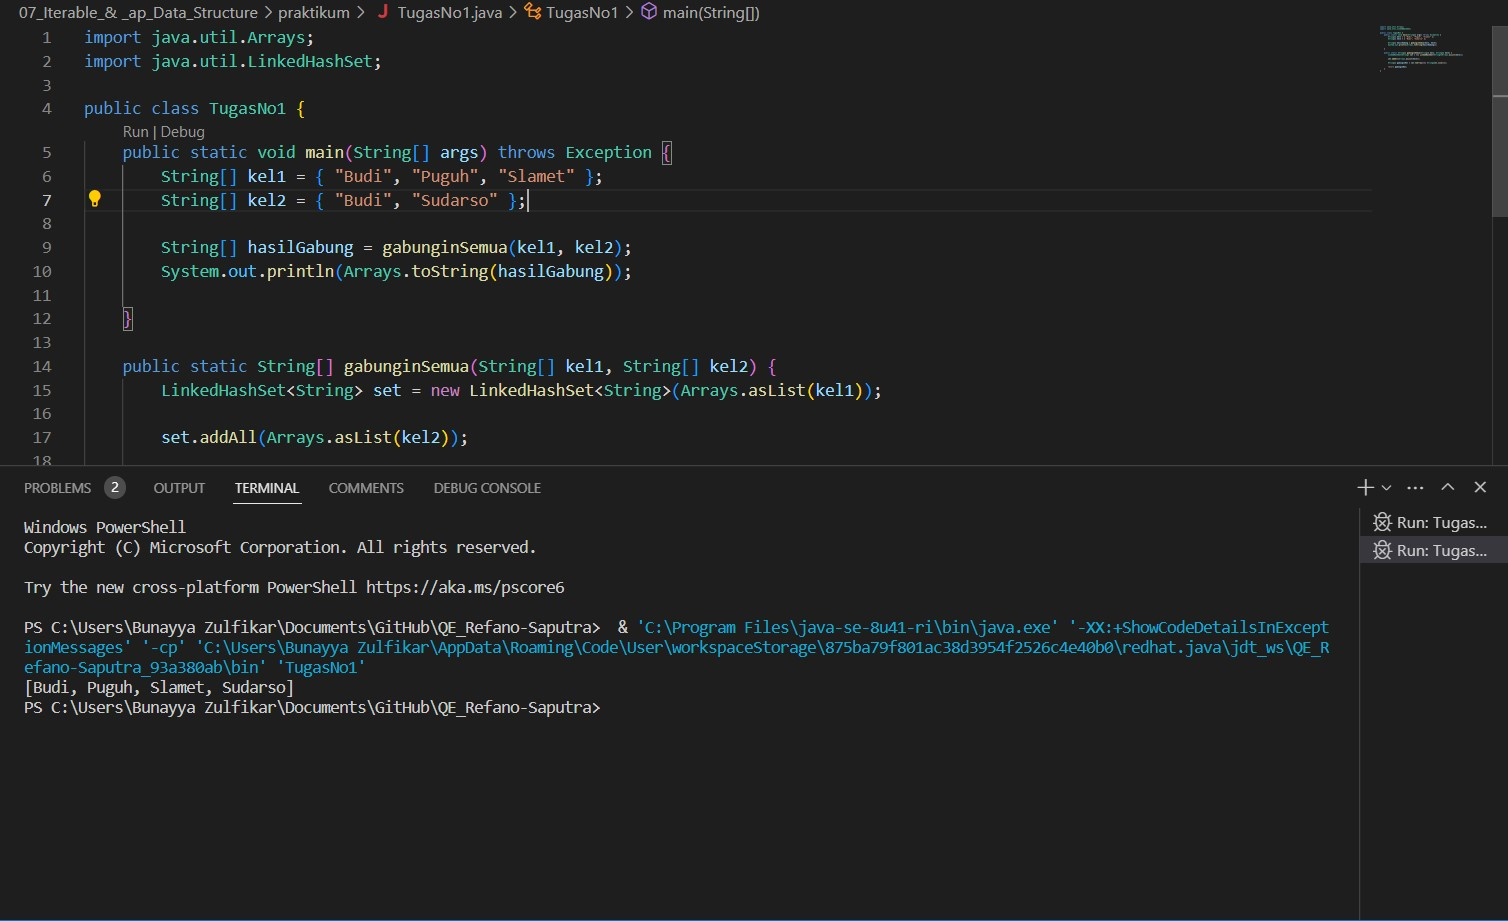
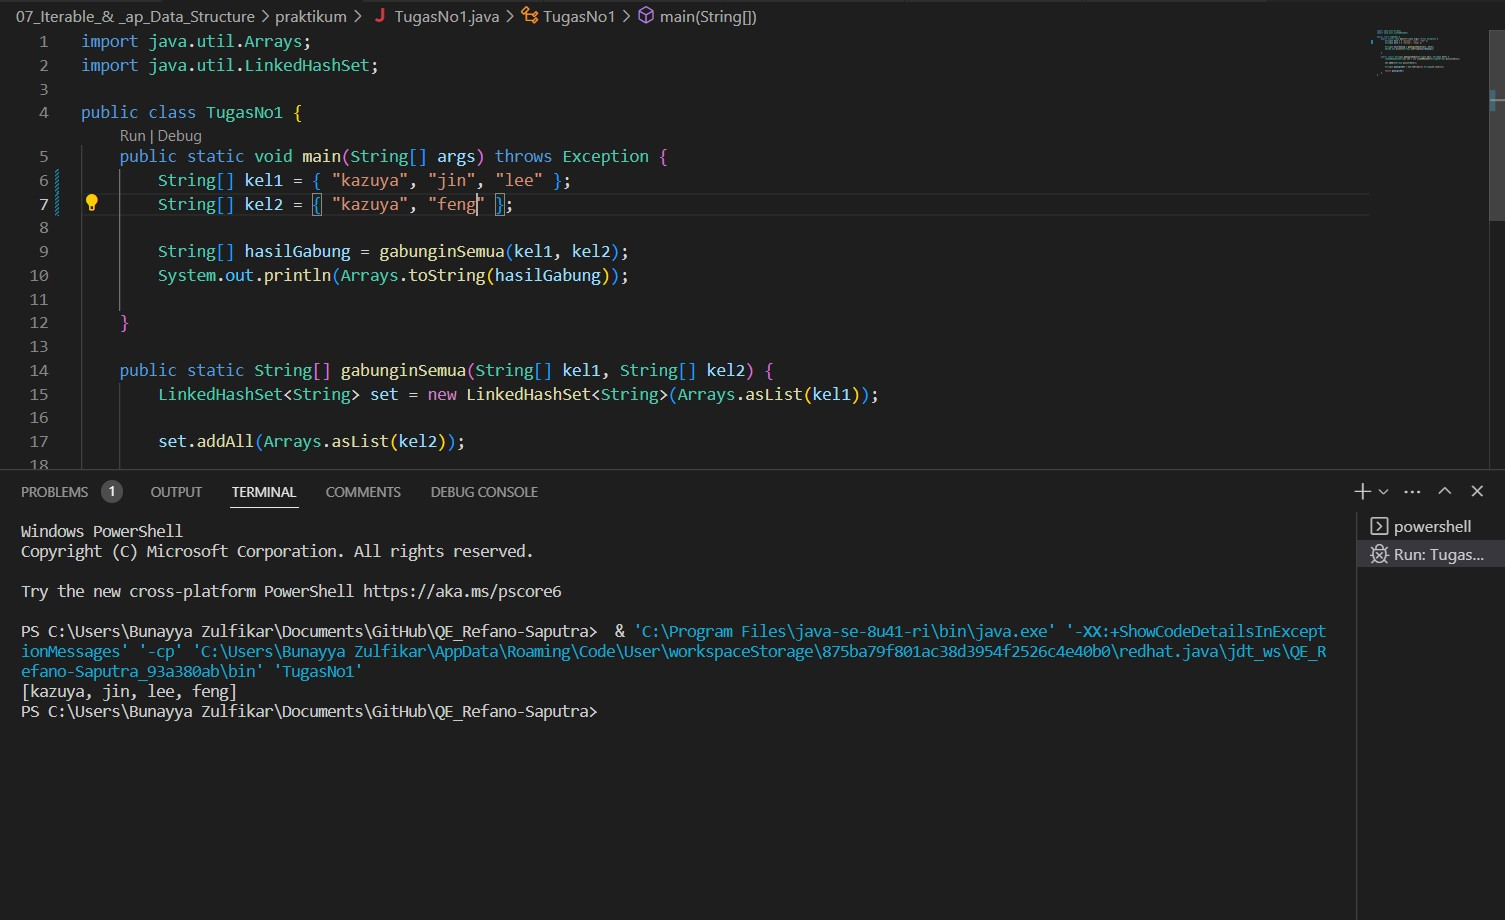
sec 7

diff --git a/07_Iterable_& _ap_Data_Structure/praktikum/TugasNo1.java b/07_Iterable_& _ap_Data_Structure/praktikum/TugasNo1.java
@@ -3,8 +3,8 @@ import java.util.LinkedHashSet;
 
 public class TugasNo1 {
     public static void main(String[] args) throws Exception {
-        String[] kel1 = { "Budi", "Puguh", "Slamet" };
-        String[] kel2 = { "Budi", "Sudarso" };
+        String[] kel1 = { "kazuya", "jin", "lee" };
+        String[] kel2 = { "kazuya", "feng" };
 
         String[] hasilGabung = gabunginSemua(kel1, kel2);
         System.out.println(Arrays.toString(hasilGabung));

diff --git a/06_Basic_Programming_&_OOP/praktikum/SoalEksplorasi2/book.java b/06_Basic_Programming_&_OOP/praktikum/SoalEksplorasi2/book.java
@@ -1,4 +1,4 @@
-package College;
+package SoalEksplorasi2;
  
 // Importing required classes
 import java.util.Scanner;
